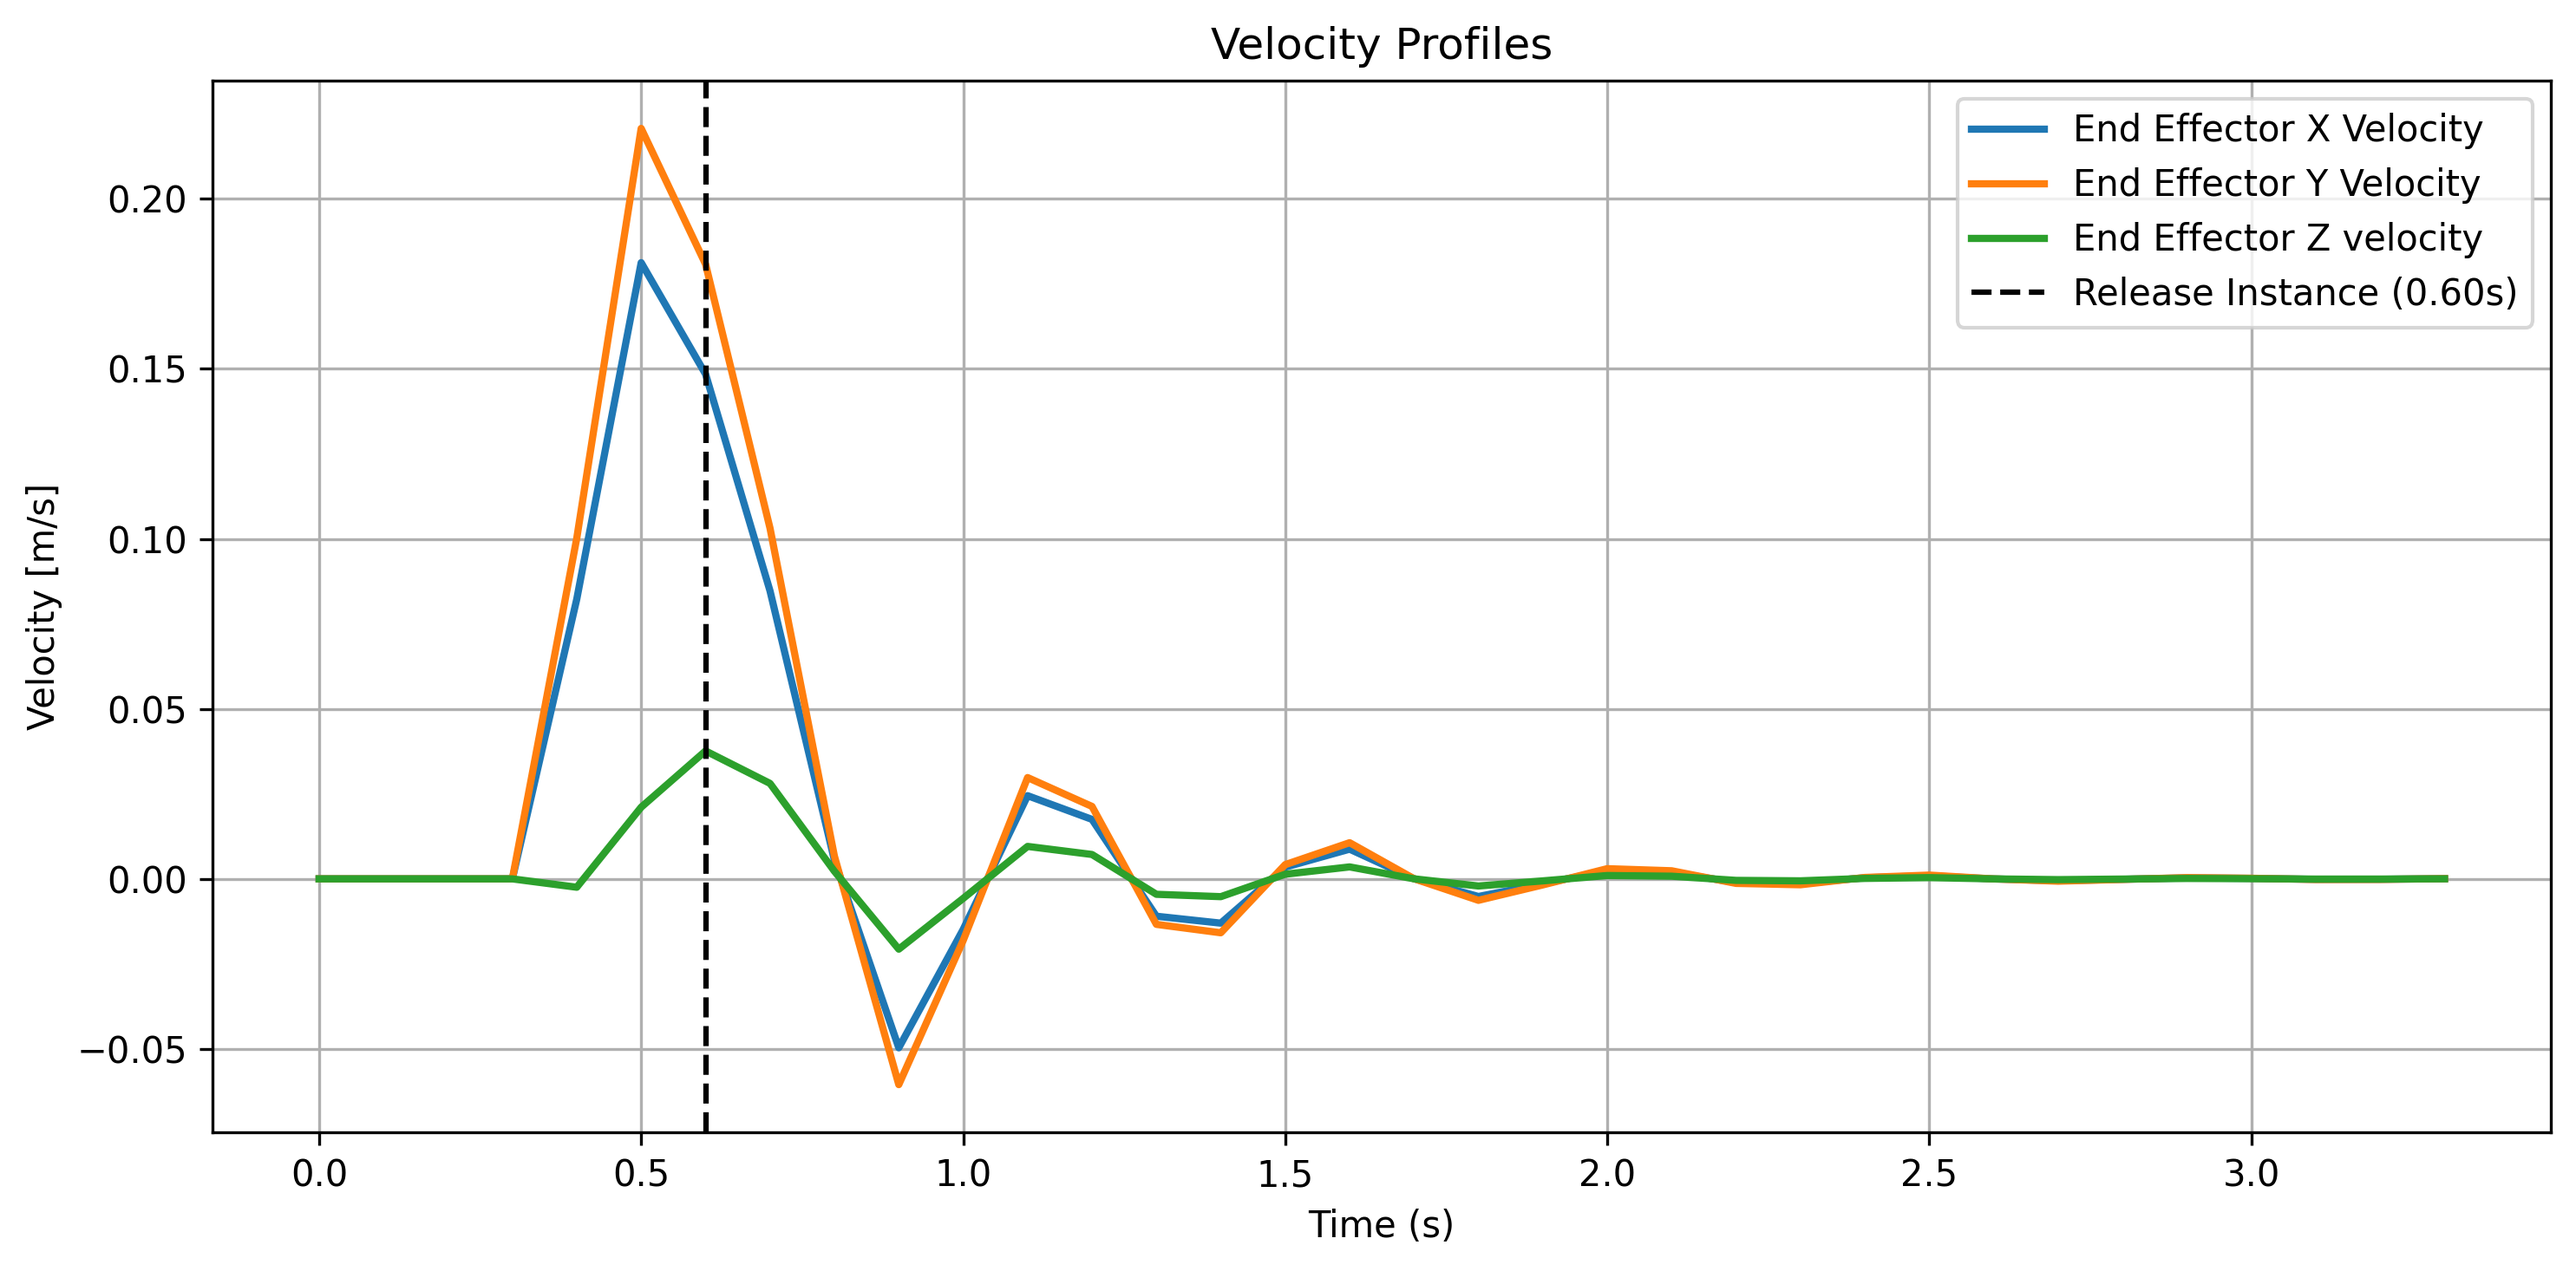
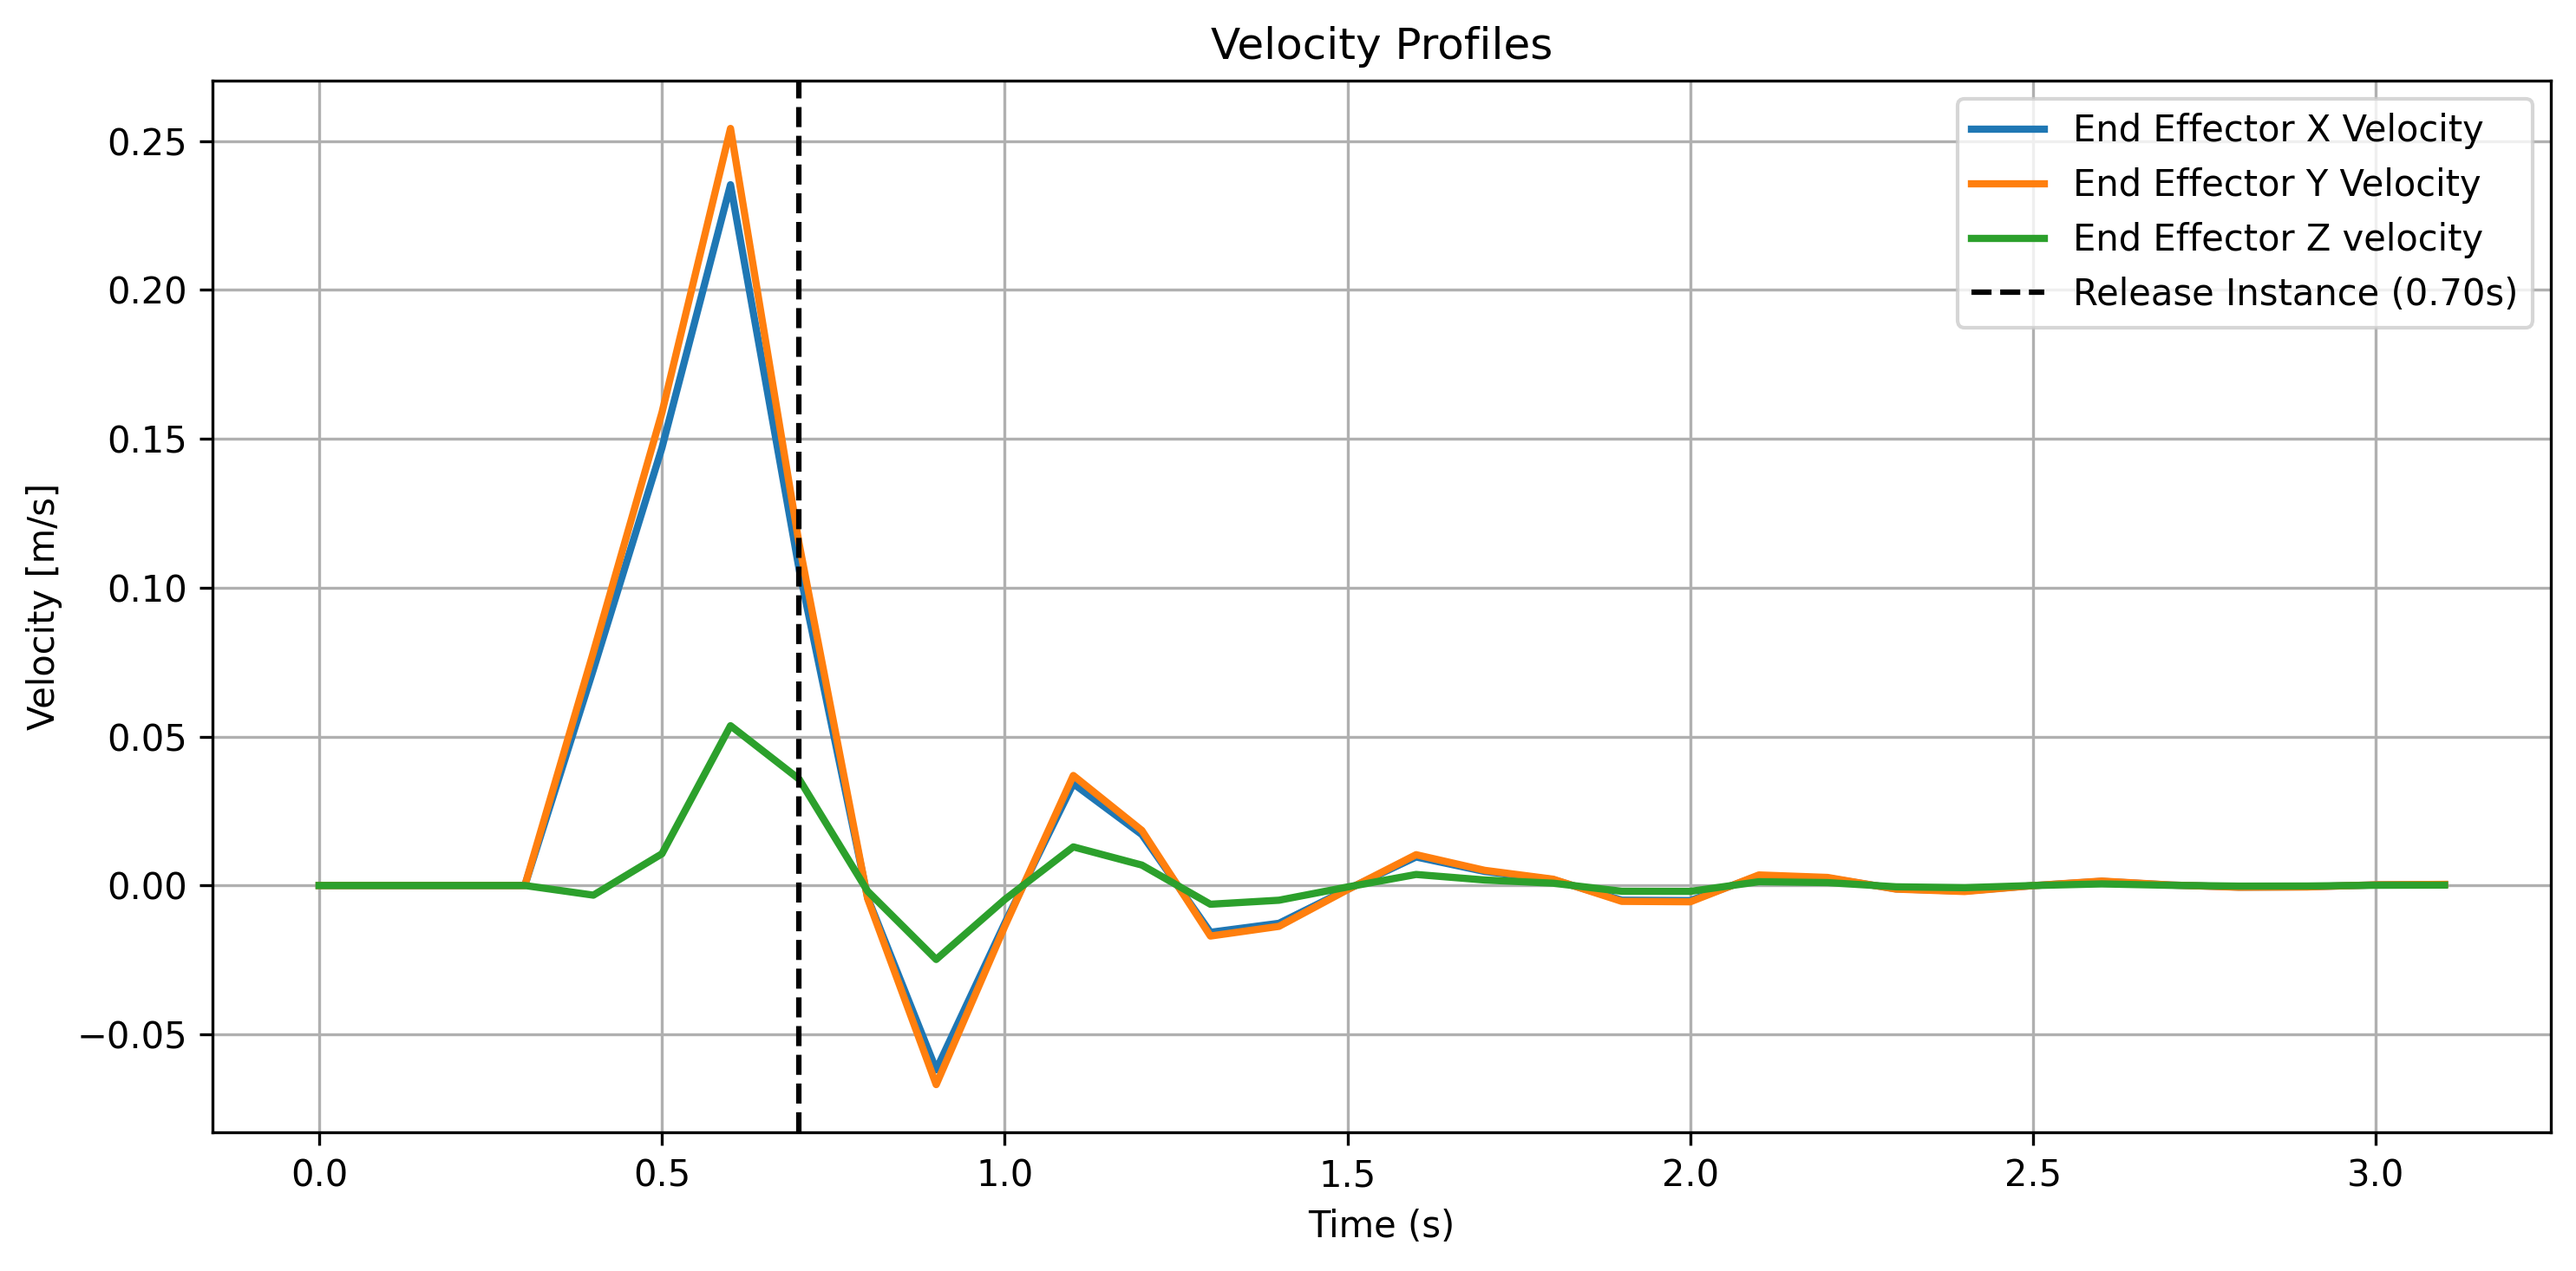
updates and the main testing

diff --git a/scripts/main_direct_throw.py b/scripts/main_direct_throw.py
@@ -234,19 +234,23 @@ def simulate_sys(u_step: np.array, ramp_steps: int, release_step: int, input_sca
         # unscaling the predictions (states corrresponding to the inputs)  
         preds_np = state_scaler.inverse_transform(preds_np) 
 
+        # complete trajectory (appending the initial states) 
+        state_traj = np.vstack((X, preds_np))
+
         # calculating the veloctiy  
-        diff = np.diff(preds_np, axis=0) 
+        diff = np.diff(state_traj, axis=0) 
         velocities = np.vstack([np.zeros((1, n_states)), diff / dt]) 
 
         # predicting the landing positions 
-        delta_z = preds_np[:, -1] - z_g 
+        delta_z = state_traj[:, -1] - z_g 
         sqrt_term = velocities[:,-1]**2 + (2 * g * delta_z)
         t_flight = (velocities[:,-1] + np.sqrt(sqrt_term)) / g 
-        x_landing = preds_np[:,ee_x_idx] + velocities[:,ee_x_idx] * t_flight
-        y_landing = preds_np[:,ee_y_idx] + velocities[:,ee_y_idx] * t_flight  
+        x_landing = state_traj[:,ee_x_idx] + velocities[:,ee_x_idx] * t_flight
+        y_landing = state_traj[:,ee_y_idx] + velocities[:,ee_y_idx] * t_flight  
 
         # actual landing based on the release time 
-        idx = min(release_step, len(x_landing) - 1) #since python uses 0 indexing
+        # idx = min(release_step, len(x_landing) - 1) #since python uses 0 indexing
+        idx = release_step
         act_landing_x = x_landing[idx] 
         act_landing_y = y_landing[idx]
         land_pos = np.array([act_landing_x, act_landing_y]) 
@@ -254,7 +258,7 @@ def simulate_sys(u_step: np.array, ramp_steps: int, release_step: int, input_sca
         # distance to the goal 
         dist = np.linalg.norm(des_land_pos - land_pos) 
 
-        return u_array, preds_np, velocities, land_pos, idx, dist
+        return u_array, state_traj, velocities, land_pos, idx, dist
 
 # %% [markdown]
 # defining the objective function
@@ -269,7 +273,7 @@ def objective(trial) :
     u_step = np.array([u1_step, u2_step, u3_step]) # shape (,3)
     # ramp and release time steps  
     ramp_steps = trial.suggest_int("ramp_steps", 3, total_steps) 
-    release_step = trial.suggest_int("release_step", 0, ramp_steps)  
+    release_step = trial.suggest_int("release_step", 0, total_steps + max_lag)  
 
     _, _, _, _, _, dist = simulate_sys(u_step=u_step, ramp_steps=ramp_steps, release_step=release_step, input_scaler=input_scaler, state_scaler=state_scaler)    
 
@@ -315,11 +319,13 @@ release_step = best_params["release_step"]
 
 u_data, x_data, velocities, final_land_pos, release_idx, dist = simulate_sys(u_step=u_step, ramp_steps=ramp_steps, release_step=release_step, input_scaler=input_scaler, state_scaler=state_scaler) 
 
-print("final distance: ", dist)
+print("final distance: ", dist) 
+print("state tejectory shape: ", x_data.shape)
+print("input trajectory shape: ", u_data.shape)
 
 # Time vectors for plotting
 time_steps = np.arange(len(x_data)) * dt
-time_inputs = np.arange(len(u_data)) * dt
+time_inputs = np.arange(len(u_data)) * dt 
 
 # plot 1: Actuation Profiles 
 plot_name = "act_inputs_MIL.png"
@@ -329,9 +335,8 @@ plt.plot(time_inputs, u_data[:, 1], label='Actuator 2', linewidth=2)
 plt.plot(time_inputs, u_data[:, 2], label='Actuator 3', linewidth=2)
 # Add vertical line for release time
 # Note: release_idx corresponds to preds, we need to shift it for inputs which has lag padding
-max_lag = max(lag_input, lag_state)
-release_time_plot_u = (release_idx + max_lag) * dt # IN THE U DOMAIN
-release_time_plot = (release_idx + max_lag +1) * dt # IN THE X DOMAIN
+release_time_plot_u = (release_idx - 1) * dt # IN THE U DOMAIN
+release_time_plot = (release_idx) * dt # IN THE X DOMAIN
 plt.axvline(x=release_time_plot_u, color='k', linestyle='--', label=f'Actuator Input Corresponding to Release ({release_time_plot_u:.2f}s)')
 plt.axvline(x=release_time_plot, color='k', linestyle='--', label=f'Release Instance ({release_time_plot:.2f}s)')
 plt.title('Optimal Input Profiles')
@@ -433,7 +438,15 @@ plt.legend()
 plt.grid(True)
 plt.tight_layout()
 plt.savefig(os.path.join(MIL_result_path, plot_name), dpi=300, bbox_inches="tight")
-plt.close()
+plt.close() 
+
+# saving the MIL simulated state and input trajectory 
+MIL_trajectory = np.hstack((u_data, x_data)) 
+MIL_trajectory_df = pd.DataFrame(MIL_trajectory, columns=["U1", "U2", "U3", "mid_x", "mid_y", "mid_z", "ee_x", "ee_y", "ee_z"]) # conversion to pd DF 
+MIL_trajectory_filename = "MIL_sim_logs.csv" 
+MIL_trajectory_path = os.path.join(script_directory, MIL_trajectory_filename) 
+MIL_trajectory_df.to_csv(MIL_trajectory_path, index = False) # saving as csv 
+
 
 # %% [markdown]
 # saving the best inputs as a .csv file
@@ -441,7 +454,7 @@ plt.close()
 # %%
 df = pd.DataFrame(u_data, columns=["U1", "U2", "U3"]) # conversion to pd DF 
 optimal_inputs_path = os.path.join(script_directory, "optimal_inputs.csv")
-df.to_csv(optimal_inputs_path, index = False) # saving as csv  
+df.to_csv(optimal_inputs_path, index = False) # saving as csv 
 print("optimal input shape: ",u_data.shape) 
 
 # %% [markdown]
@@ -484,7 +497,7 @@ launch_controller_logger = roslaunch.parent.ROSLaunchParent(uuid, [launch_file_p
 # starting the launch files 
 print("starting the sorosimpp launch file")
 launch_sorosimpp.start() 
-rospy.sleep(3) 
+rospy.sleep(10) 
 print("starting the controller and logger launch file") 
 launch_controller_logger.start() 
 
@@ -514,8 +527,8 @@ ros_sim_logs = df.to_numpy()
 print("ROS simulation logs shape: ", ros_sim_logs.shape) 
 
 # extracting the inputs and states
-u_data = ros_sim_logs[:, act_1_idx_ros:mid_x_idx_ros]
-x_data = ros_sim_logs[:, mid_x_idx_ros:] 
+u_data = ros_sim_logs[:len(u_data), act_1_idx_ros:mid_x_idx_ros]
+x_data = ros_sim_logs[:len(x_data), mid_x_idx_ros:] 
 
 # calculating the velocties 
 diff = np.diff(x_data, axis=0) 
@@ -529,14 +542,14 @@ x_landing = x_data[:,ee_x_idx] + velocities[:,ee_x_idx] * t_flight
 y_landing = x_data[:,ee_y_idx] + velocities[:,ee_y_idx] * t_flight 
 
 # final landing based on the release time 
-idx = release_idx + max_lag + 1
+idx = release_idx
 act_landing_x = x_landing[idx] 
 act_landing_y = y_landing[idx]
 final_land_pos = np.array([act_landing_x, act_landing_y])
 
 # Time vectors for plotting
-time_steps = np.arange(len(ros_sim_logs)) * dt
-time_inputs = np.arange(len(ros_sim_logs)) * dt
+time_steps = np.arange(len(x_data)) * dt
+time_inputs = np.arange(len(u_data)) * dt
 
 # creating the folder to save the plots 
 sim_result_dirname = "sim_results" 
@@ -552,8 +565,8 @@ plt.plot(time_inputs, u_data[:, 2], label='Actuator 3', linewidth=2)
 # Add vertical line for release time
 # Note: release_idx corresponds to preds, we need to shift it for inputs which has lag padding
 max_lag = max(lag_input, lag_state)
-release_time_plot_u = (release_idx + max_lag) * dt # IN THE U DOMAIN
-release_time_plot = (release_idx + max_lag +1) * dt # IN THE X DOMAIN
+release_time_plot_u = (release_idx - 1) * dt # IN THE U DOMAIN
+release_time_plot = (release_idx) * dt # IN THE X DOMAIN
 plt.axvline(x=release_time_plot_u, color='k', linestyle='--', label=f'Actuator Input Corresponding to Release ({release_time_plot_u:.2f}s)')
 plt.axvline(x=release_time_plot, color='k', linestyle='--', label=f'Release Instance ({release_time_plot:.2f}s)')
 plt.title('Optimal Input Profiles')
@@ -574,7 +587,7 @@ plt.plot(x_data[0, ee_x_idx], x_data[0, ee_y_idx], 'go', label='Start')
 # Mark end 
 plt.plot(x_data[-1, ee_x_idx], x_data[-1, ee_y_idx], 'ko', label='End') 
 # Mark release point
-plt.plot(x_data[release_idx + max_lag + 1, ee_x_idx], x_data[release_idx + max_lag + 1, ee_y_idx], 'ro', label='Release Point')
+plt.plot(x_data[release_idx, ee_x_idx], x_data[release_idx, ee_y_idx], 'ro', label='Release Point')
 # Mark landing point and desired landing point 
 plt.plot(final_land_pos[0], final_land_pos[1], 'rx', label='Landing Point')
 plt.plot(des_land_pos[0], des_land_pos[1], 'kx', label='Desired Landing Point')
@@ -627,7 +640,7 @@ plt.plot(time_steps, velocities[:, ee_y_idx], label='End Effector Y Velocity', l
 plt.plot(time_steps, velocities[:, ee_z_idx], label='End Effector Z velocity', linewidth=2)
 # Add vertical line for release time
 # Note: release_idx corresponds to preds, we need to shift it for inputs which has lag padding
-release_time_plot_v = (release_idx + max_lag + 1) * dt 
+release_time_plot_v = (release_idx) * dt 
 plt.axvline(x=release_time_plot_v, color='k', linestyle='--', label=f'Release Instance ({release_time_plot_v:.2f}s)')
 plt.title('Velocity Profiles')
 plt.xlabel('Time (s)')
@@ -646,7 +659,7 @@ plt.figure(figsize=(10, 5))
 plt.plot(time_steps, v_abs, label='End Effector Absolute Velocity', linewidth=2, color='purple')
 # Add vertical line for release time
 # Note: release_idx corresponds to preds, we need to shift it for inputs which has lag padding
-release_time_plot_v = (release_idx + max_lag + 1) * dt 
+release_time_plot_v = (release_idx) * dt 
 plt.axvline(x=release_time_plot_v, color='k', linestyle='--', label=f'Release Instance ({release_time_plot_v:.2f}s)')
 plt.title('Absolute Velocity (Magnitude) Profile')
 plt.xlabel('Time (s)')
@@ -656,3 +669,5 @@ plt.grid(True)
 plt.tight_layout()
 plt.savefig(os.path.join(sim_result_path, plot_name), dpi=300, bbox_inches="tight")
 plt.close()
+
+
